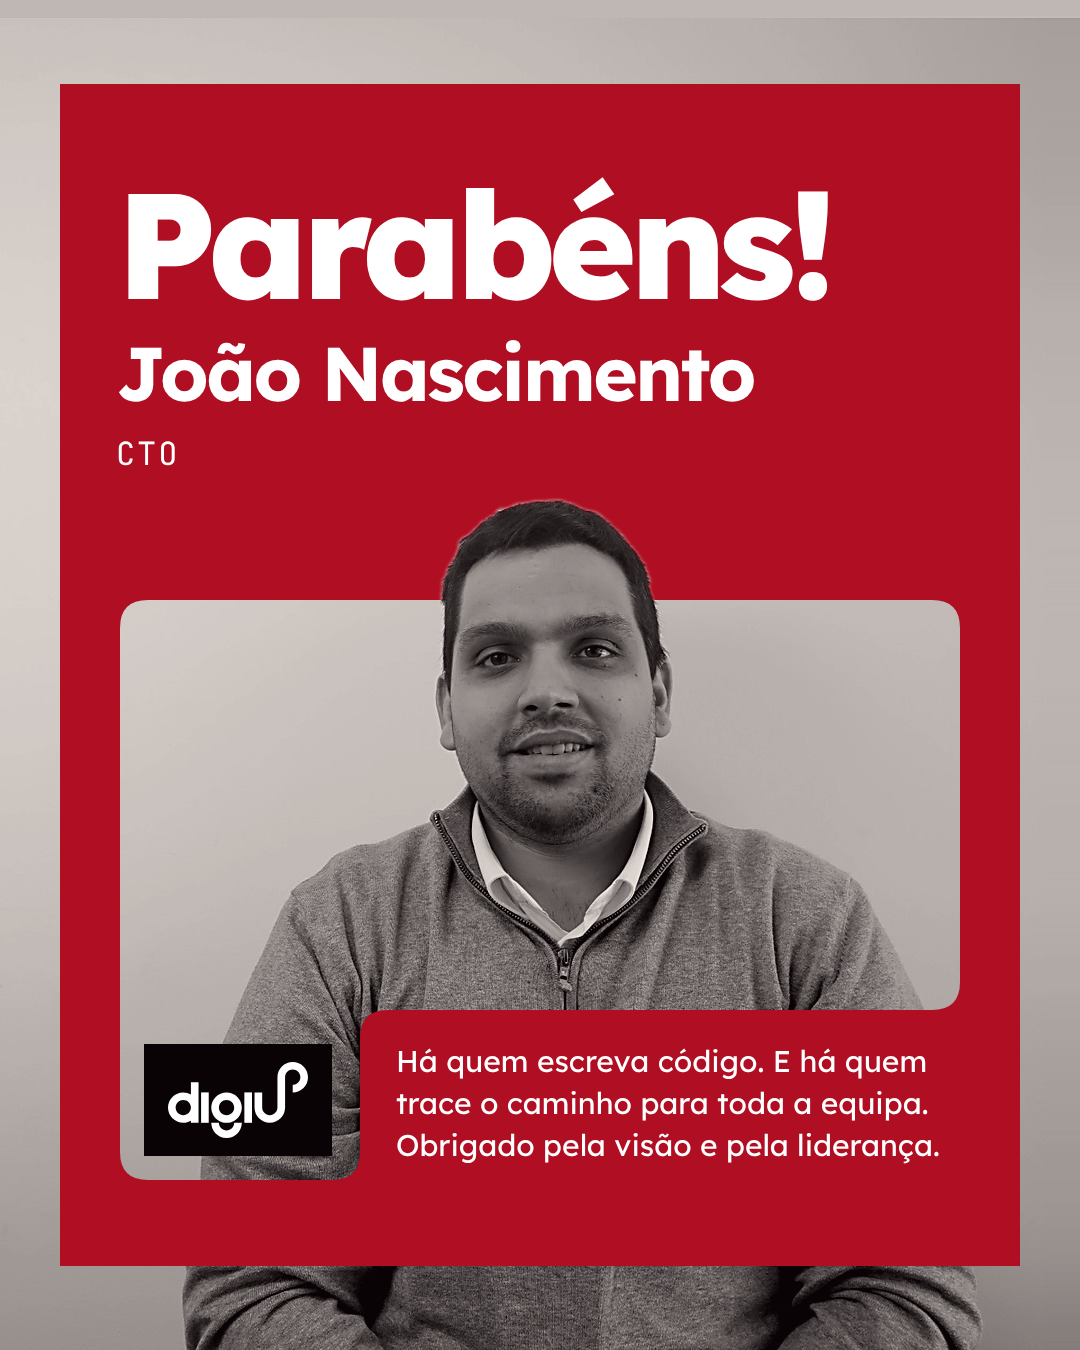
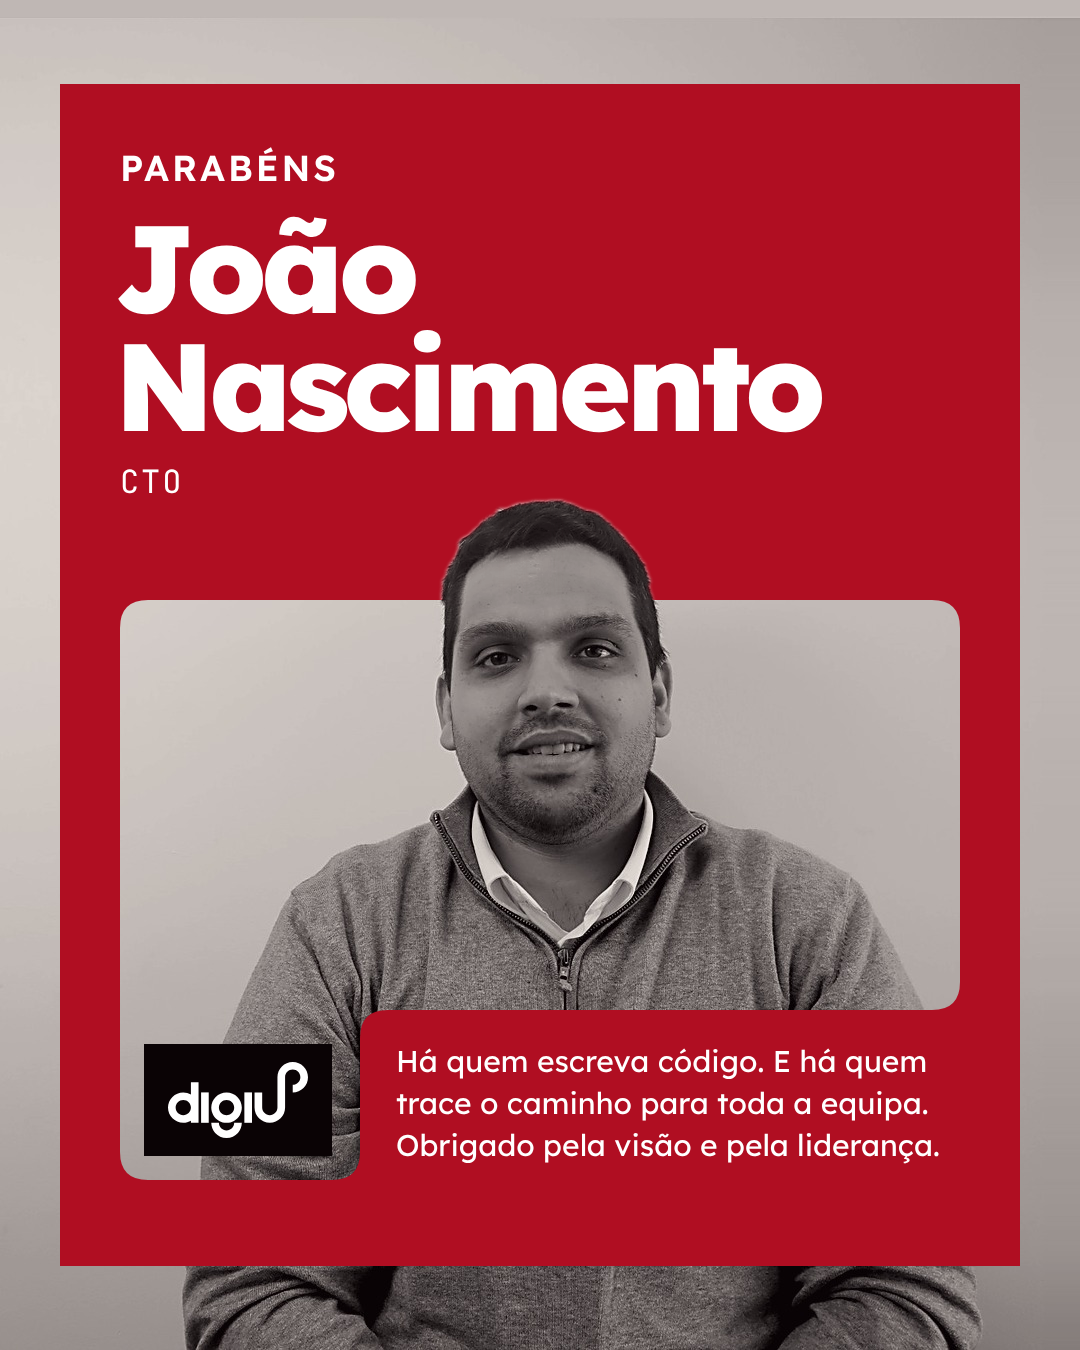
Aniversário do João v2: o nome passa a mandar no título
«PARABÉNS» passa a etiqueta pequena, «João Nascimento» fica gigante em
duas linhas e «CTO» por baixo, com espaços iguais entre os três.

Claude-Session: https://claude.ai/code/session_0173GtUhSHhHFQaxLRUGv3dG

Changed region(s): [[0.0917, 0.0933, 0.7639, 0.3733]]

diff --git a/aniversario-joao/post-v2/carrossel.html b/aniversario-joao/post-v2/carrossel.html
@@ -31,10 +31,10 @@ body{background:#17181a;font-family:var(--du-font-sans);padding:56px}
   <!-- só a cabeça sai da janela, por cima do painel -->
   <img class="abs" src="joao-recorte.png" alt="" style="inset:0;width:1080px;height:1350px;clip-path:inset(0 0 744px 0)">
 
-  <div class="abs" style="left:116px;top:172px;color:var(--du-white)">
-    <div style="font-size:150px;font-weight:800;letter-spacing:-.05em;line-height:.95">Parabéns!</div>
-    <div style="margin-top:20px;font-size:76px;font-weight:700;letter-spacing:-.035em;line-height:1">João Nascimento</div>
-    <div style="margin-top:21px;font-family:var(--du-font-mono);font-size:32px;letter-spacing:.06em">CTO</div>
+  <div class="abs" style="left:120px;top:150px;color:var(--du-white)">
+    <div style="font-size:36px;font-weight:600;letter-spacing:.08em;text-transform:uppercase;line-height:1">Parabéns</div>
+    <div style="margin-top:22px;margin-left:-6px;font-size:124px;font-weight:800;letter-spacing:-.045em;line-height:.95">João<br>Nascimento</div>
+    <div style="margin-top:22px;font-family:var(--du-font-mono);font-size:32px;letter-spacing:.06em;line-height:1">CTO</div>
   </div>
 
 

diff --git a/aniversario-joao/README.md b/aniversario-joao/README.md
@@ -4,4 +4,4 @@
 - `story/` — versão Story 1080×1920.
 
 Para outra pessoa da equipa: trocar `joao-pessoa.png` e `joao-glow.png` (recorte e brilho gerados a partir da foto original), o nome, o cargo e as duas frases em `carrossel.html`. Verificar com `node ferramentas/auditoria-acessibilidade.js aniversario-joao/post`.
-- `post-v2/` — versão alternativa (inspirada num anúncio de recrutamento): painel carmim (#B00E22) sobre a foto, janela recortada irregular (com degrau para os vistos) e a cabeça a sair da janela, título «Parabéns!» com o nome e o cargo por baixo, logótipo numa etiqueta sobre a foto e um texto curto no degrau.
+- `post-v2/` — versão alternativa (inspirada num anúncio de recrutamento): painel carmim (#B00E22) sobre a foto, janela recortada irregular (com degrau para os vistos) e a cabeça a sair da janela, «PARABÉNS» como etiqueta, o nome gigante em duas linhas e o cargo por baixo, logótipo numa etiqueta sobre a foto e um texto curto no degrau.
